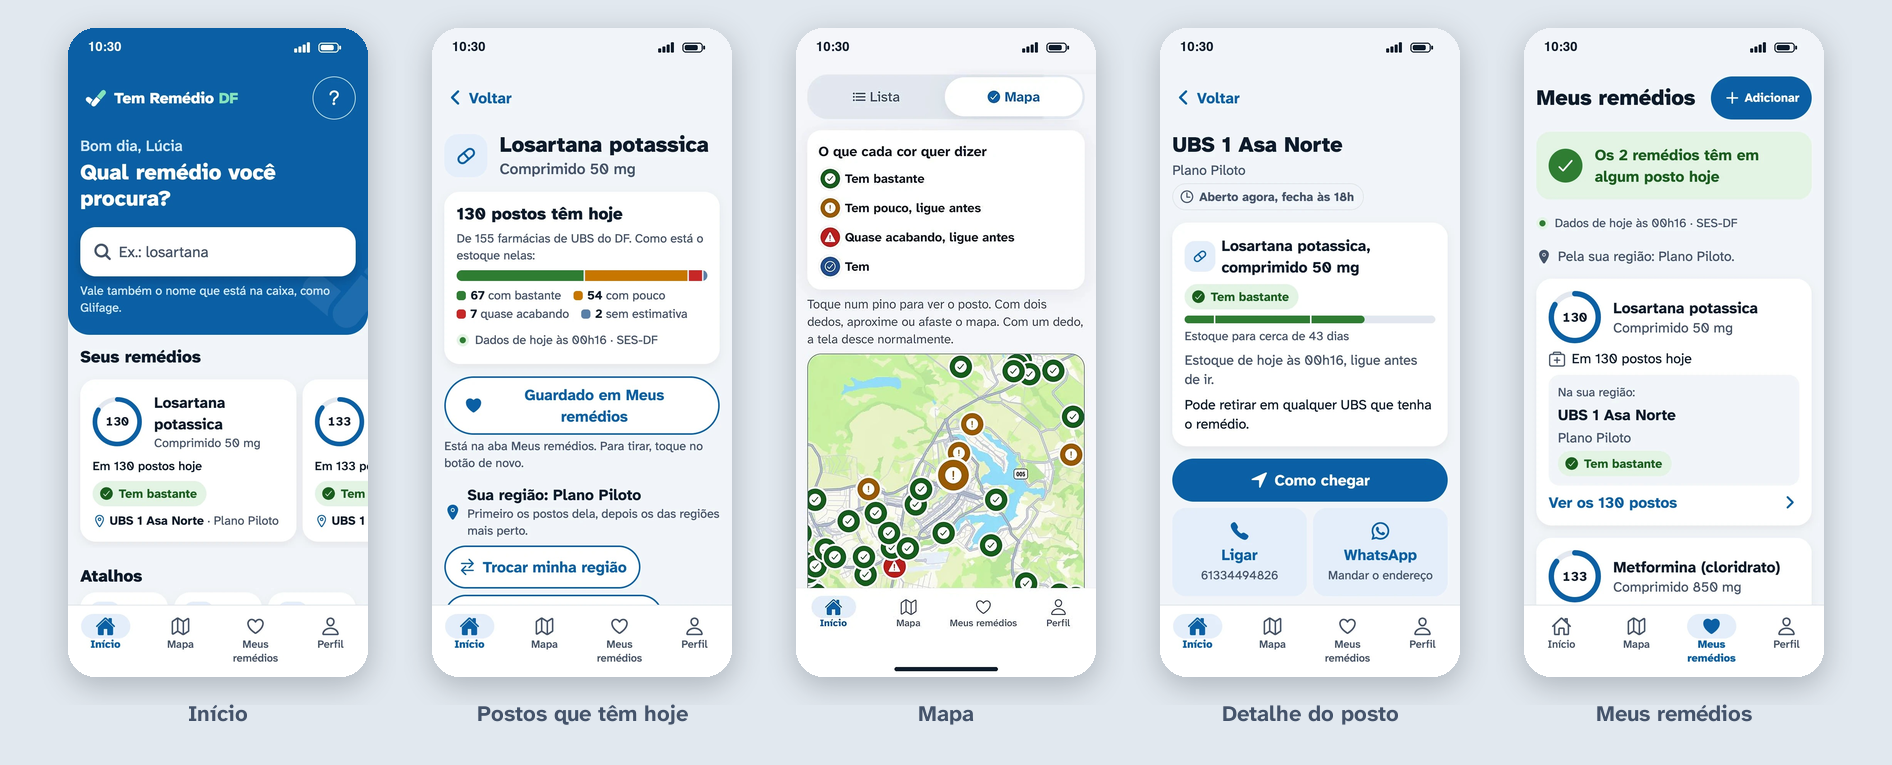
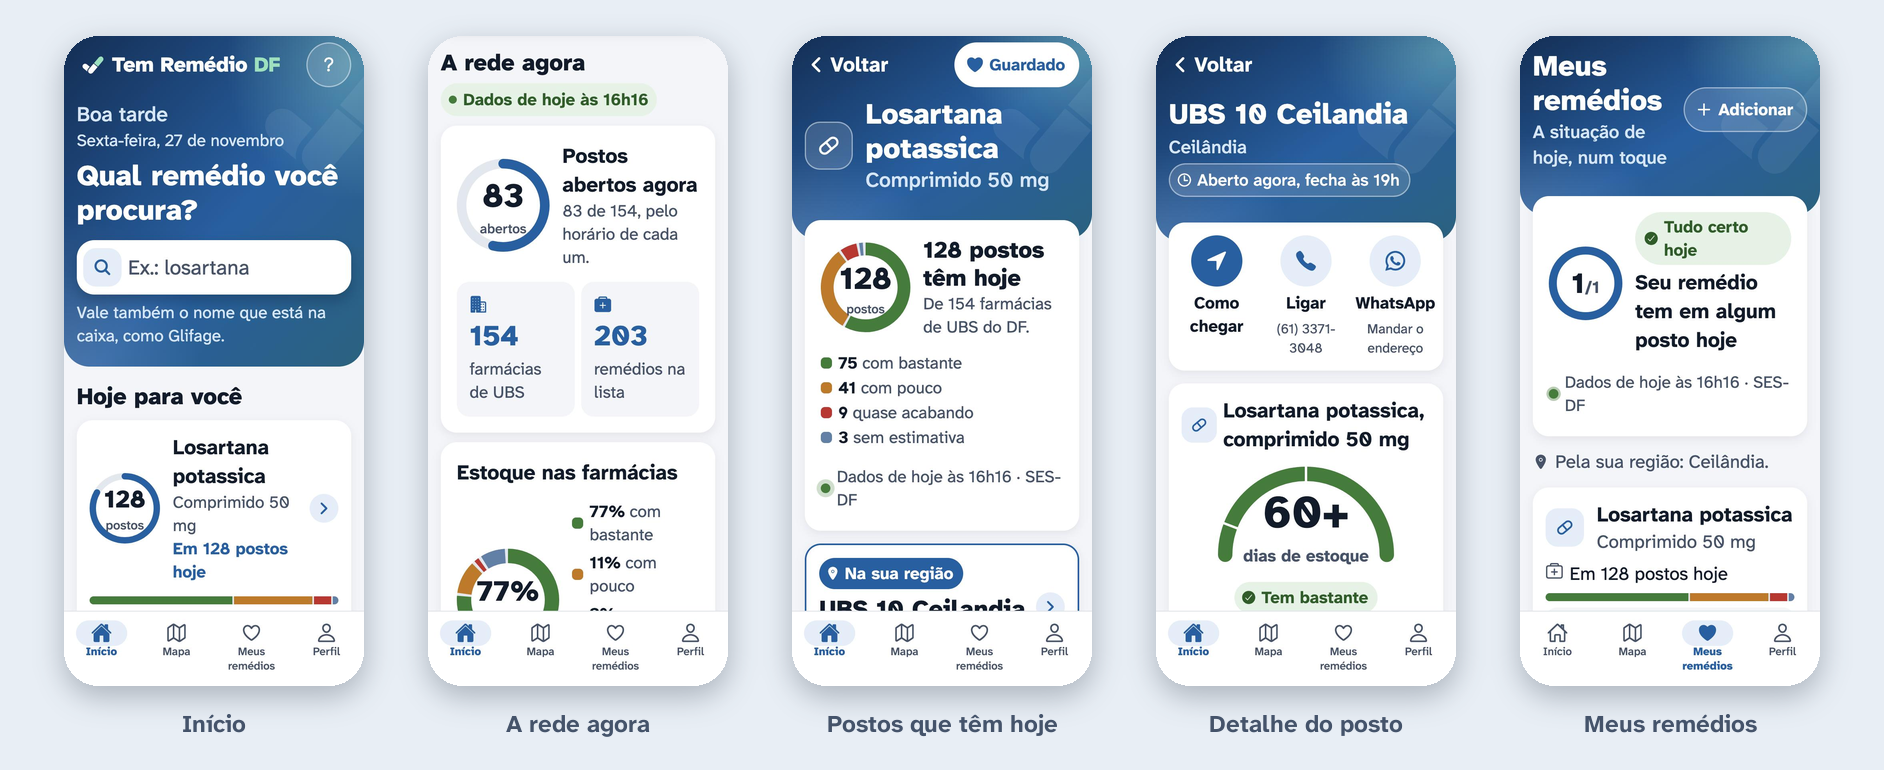
README: vitrine e GIF com o redesenho v3
- vitrine.png: Início, painel "A rede agora", postos, detalhe e Meus
  remédios, capturados na versão web (sem o mapa, que é só do celular),
  com o relógio em 17h30 para aparecer postos abertos; dados reais.
- fluxo.gif: Início → painel → estoque → postos → detalhe → Meus
  remédios → Perfil.
- Início: dentro da rosca do estoque, "bastante" no lugar de "com
  bastante", que encostava no anel (achado nas capturas).

diff --git a/apps/mobile/src/app/(abas)/(buscar)/index.tsx b/apps/mobile/src/app/(abas)/(buscar)/index.tsx
@@ -430,8 +430,9 @@ function PainelRede({ snapshot }: { snapshot: Snapshot }) {
           <View style={estilos.linha}>
             <Rosca contagem={rede.niveis} tamanho={128} espessura={18}>
               <NumeroAnimado valor={porcentagemAlto} formatar={(n) => `${n}%`} peso="numero" tamanho={28} cor={cores.texto} />
+              {/* Curto: dentro da rosca, "com bastante" encostava no anel. A legenda ao lado diz por extenso. */}
               <Texto variante="legenda" tamanho={12} peso="medio" secundario>
-                com bastante
+                bastante
               </Texto>
             </Rosca>
             <View style={estilos.flex}>

diff --git a/README.md b/README.md
@@ -12,10 +12,12 @@ Projeto de portfólio em React Native (Expo SDK 58) + TypeScript.
 - **No Android:** baixe o APK em [Releases](https://github.com/vaotees/tem-remedio-df/releases/latest) e abra no celular. O Android vai pedir para permitir a instalação de fora da Play Store.
 - **No iPhone:** pelo navegador, no link acima. A versão da App Store depende da conta de desenvolvedor da Apple (o projeto já está configurado para o build).
 
-![Telas do Tem Remédio DF: Início, postos que têm o remédio hoje, mapa, detalhe do posto e Meus remédios](docs/telas/vitrine.png)
+![Telas do Tem Remédio DF: Início, painel "A rede agora", postos que têm o remédio hoje, detalhe do posto e Meus remédios](docs/telas/vitrine.png)
+
+<sub>Capturas da versão web (o mapa aparece só no app do celular), com o relógio às 17h30 para mostrar postos abertos. Dados reais da SES-DF.</sub>
 
 <details>
-<summary>Ver o fluxo animado (busca → postos → mapa → detalhe → Meus remédios)</summary>
+<summary>Ver o fluxo animado (Início → painel da rede → postos → detalhe → Meus remédios → Perfil)</summary>
 
 ![Fluxo do app em GIF](docs/telas/fluxo.gif)
 
@@ -23,7 +25,7 @@ Projeto de portfólio em React Native (Expo SDK 58) + TypeScript.
 
 O processo de design e as decisões estão no [estudo de caso](https://emsolucoesdigitais.com.br/cases/tem-remedio-df). Para apresentar o projeto (pitch, roteiro de vídeo e perguntas de entrevista), veja [`docs/APRESENTACAO.md`](docs/APRESENTACAO.md).
 
-Status: coletor de dados, busca → dose → postos mais perto → detalhe, mapa, Meus remédios, acessibilidade revisada (leitor de tela, letra grande, alvos de toque de 56) e redesenho visual (marca, gráficos de cobertura e de dias de estoque, Perfil sem cadastro). Antes das lojas faltam os itens de confiança da revisão de UX (aviso de versão, dado antigo, tela "Sobre").
+Status: coletor de dados, busca → dose → postos mais perto → detalhe, mapa, Meus remédios, acessibilidade revisada (leitor de tela, letra grande, alvos de toque de 56) e redesenho visual (faixa da marca em todas as telas, painel da rede com gráficos animados, arco dos dias de estoque, abertura animada, Perfil sem cadastro). Antes das lojas faltam os itens de confiança da revisão de UX (aviso de versão, dado antigo, tela "Sobre").
 
 ## Como funciona
 
